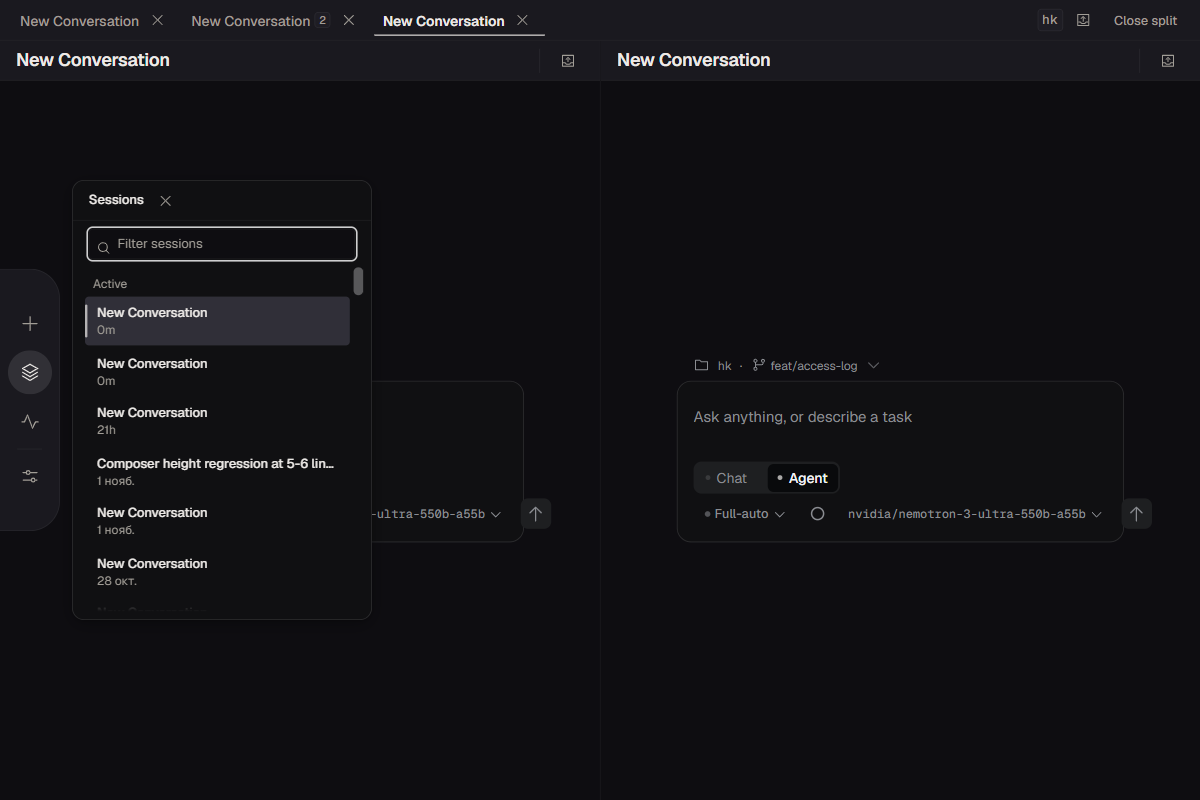
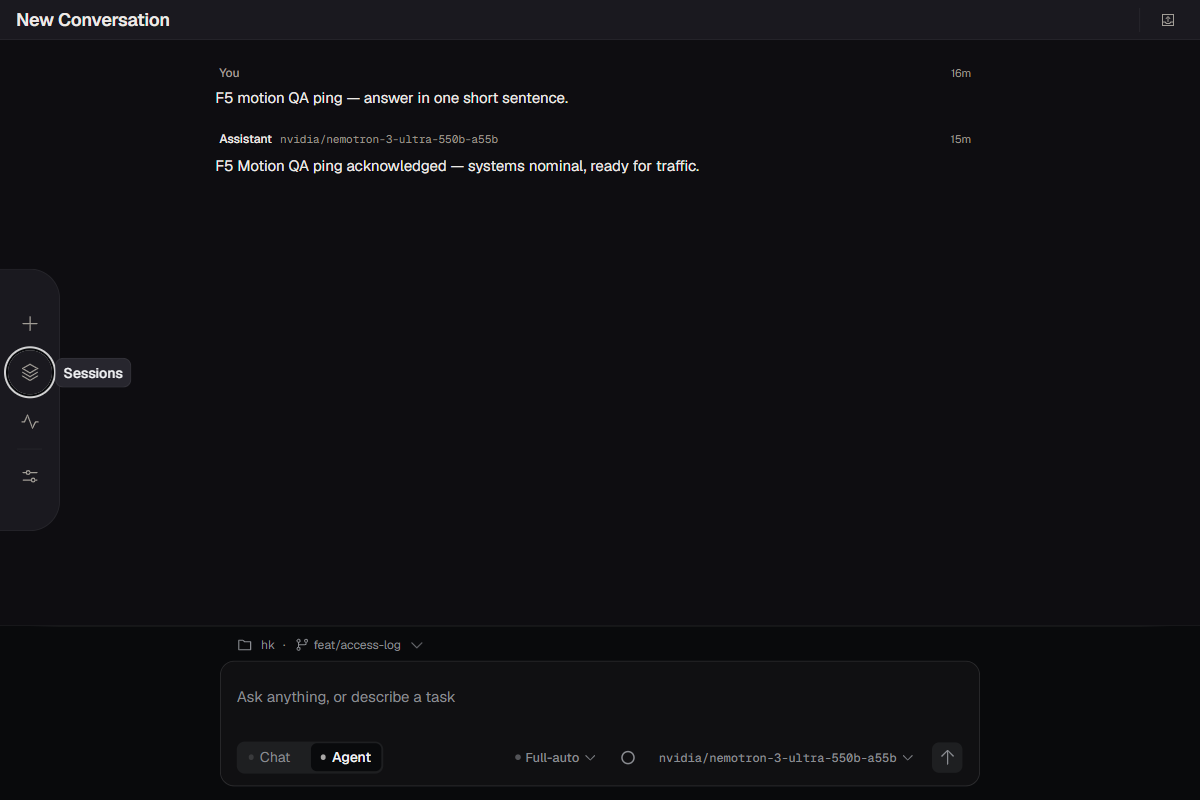
docs(design): F5 §26 frames recaptured after QA round 1 — 13 real-build captures
Frames 05-11 reshot with the sessions panel closed, single-pane states, mouse parked away;
08 reframed honestly to the sessions-list scroll (dev thread is short); 09 proves the
narrow-composer overflow fix; 10/11 hover/press on an ENABLED Send (distinct renders).
Includes the QA round-1 record and the adaptive data-motion-level l3->l1 observation.

diff --git a/docs/proof/f5-motion/README.md b/docs/proof/f5-motion/README.md
@@ -17,18 +17,33 @@ CDP `Emulation.setDeviceMetricsOverride` — PNGs are exactly the CSS client are
 | `02-sessions-open-1200x800.png` | 1200×800 | 1200×800 | `2A00AD1C6C0114B57AFF399F8310AC27` | 4238 | Sessions panel open over the cold-start state (panel motion governed by the new token layer). |
 | `03-tabs-two-1200x800.png` | 1200×800 | 1200×800 | `F596F8E4050CB135A8FAA85B16CF6ADB` | 2739 | Two "New Conversation" tabs in the strip, second active. |
 | `04-tabs-split-1200x800.png` | 1200×800 | 1200×800 | `CB8FF726C957B89402E2750AE6077649` | 3711 | Split active: two panes, each with composer; Close split control present. |
-| `05-conversation-loaded-1200x800.png` | 1200×800 | 1200×800 | `3469555D6C338B1397C4513EB06CC937` | 3613 | A real conversation loaded from the sessions panel; thread + composer ready. |
-| `06-send-streaming-1200x800.png` | 1200×800 | 1200×800 | `F89650F71C755BECD2F01A433754EB6C` | 3682 | Real Chat-mode turn in flight (~1.2 s after send): assistant responding state visible. |
-| `07-turn-final-1200x800.png` | 1200×800 | 1200×800 | `CABA0EAFAEE618AC5C6C539BC2BC9B93` | 5304 | Turn settled: assistant reply "F5 Motion QA ping acknowledged — systems nominal, ready for traffic." rendered; composer untouched. |
-| `08-long-scroll-1200x800.png` | 1200×800 | 1200×800 | `BBF0D2FD1B05B21E2F8695174B3A541A` | 5127 | Thread scrolled to bottom over real content; scroll chrome per tokens. |
-| `09-narrow-900-1200x800.png` | 900×800 | 900×800 | `BDDA9F44B5F852EA718D928B8274586F` | 4734 | Narrow-window journey state at 900 CSS width: layout reflows, no overflow, composer usable. |
-| `10-hover-send-1200x800.png` | 1200×800 | 1200×800 | `4D442F83D5E275B27C6F7ACBC469C24D` | 5131 | Send button under real pointer hover (CDP mouseMoved): hover tone applied via the 120 ms token. |
-| `11-press-send-1200x800.png` | 1200×800 | 1200×800 | `47EAC6AB0FC978D2DF9590386B3BD0BD` | 4728 | Send button captured mid-press (mousePressed held): P7 press interaction (transform/opacity, exit faster than enter). |
+| `05-conversation-loaded-1200x800.png` | 1200×800 | 1200×800 | `29E47AC8DC33F05A40FED89F5272E153` | 3495 | A real conversation loaded from the sessions panel — panel CLOSED after the pick (QA round 1 fixed the occlusion), single-pane state: full thread + composer visible. |
+| `06-send-streaming-1200x800.png` | 1200×800 | 1200×800 | `8148CE83FF42E940E3A3251D8889336C` | 3560 | Real Chat-mode turn in flight (~1.1 s after send): assistant responding state visible in the thread. |
+| `07-turn-final-1200x800.png` | 1200×800 | 1200×800 | `2136E0717933184789C2EBA2F450C114` | 3595 | Turn settled: assistant reply rendered in full, composer back to idle. |
+| `08-sessions-scroll-1200x800.png` | 1200×800 | 1200×800 | `5D5A7536146DA66218D03829DFEE7042` | 4224 | Scroll journey state: sessions list mid-scroll (`scrollTop` 1800 of 4253 — older dated rows), thread visible behind. The dev thread itself is short and does not overflow, so the scrollable real content is the sessions list (honest substitution for "long conversation scroll"). |
+| `09-narrow-900-1200x800.png` | 900×800 | 900×800 | `75E5E33E6DAD1C2BAAF84383BCC5E71B` | 3596 | Narrow-window journey state at 900 CSS width **after the QA-found overflow fix**: model label truncates with ellipsis inside its card, chevron + Send stay inside the card (round 1 showed the label running past the card edge and clipping at the window). |
+| `10-hover-send-1200x800.png` | 1200×800 | 1200×800 | `B6EEF07DEC7AC7B6671B8F463134F0C8` | 3140 | Send button under real pointer hover with text in the composer (button ENABLED — round 1 hovered a disabled button and proved nothing): hover tone applied via the 120 ms token. |
+| `11-press-send-1200x800.png` | 1200×800 | 1200×800 | `B0570D0DAE1F1516BE24E68FA2CDE3F0` | 3186 | Send captured mid-press while enabled (mousePressed held ~60 ms): P7 press interaction; the release completed a real send. Bytes differ from 10 — the press state is a distinct render. |
 | `12-reduced-motion-panel-1200x800.png` | 1200×800 | 1200×800 | `78A7E1E87F4CB26F4B1991761C593A8B` | 5176 | **Live reduced-motion pass** (the r6 known gap, closed): `prefers-reduced-motion: reduce` emulated — `matchMedia` reports true, sessions panel opened under the global gate renders its final state with no mid-flight artifacts; adaptive level observed at `l1`. |
 
 Every frame distinct (unique MD5), all ≥2739 colours. Adaptive level observed live:
 `l3` at cold start → `l1` after the session's interactions (frames 01 vs 12) — the
 §7.3 mechanism adapting in real use.
+
+## QA round 1 → fix (recorded)
+
+Independent visual QA FAILED the first capture set (7 frames): the sessions panel stayed
+open from frame 05 onward (capture-script fault — occluded every "state" subject), and it
+found a REAL narrow-width defect: at 900px the composer model row overflowed its card and
+clipped at the window edge. The defect was fixed by an implementer round (root cause: the
+vendored shadcn Button base string carries `shrink-0`, which — as a utility in
+layer(utilities) — outranks the sheet's `min-width:0`; fix = `shrink` in the ModelPicker
+trigger className so tailwind-merge evicts the bare `shrink-0`, leaving the SVG-scoped
+scoping intact; `src/components/ModelPicker.tsx:144-156`, three new pins in
+`Composer.test.tsx`, 981/981 green). Frames 05–11 were recaptured with the panel closed
+and the mouse parked away from controls; frame 08 was reframed honestly to the sessions
+list scroll (the dev thread is short and does not overflow). Frames 01–04, 12 passed
+round 1 and are unchanged.
 
 ## §26 checklist (13, honest) — verified on these frames by the independent visual QA pass
 
